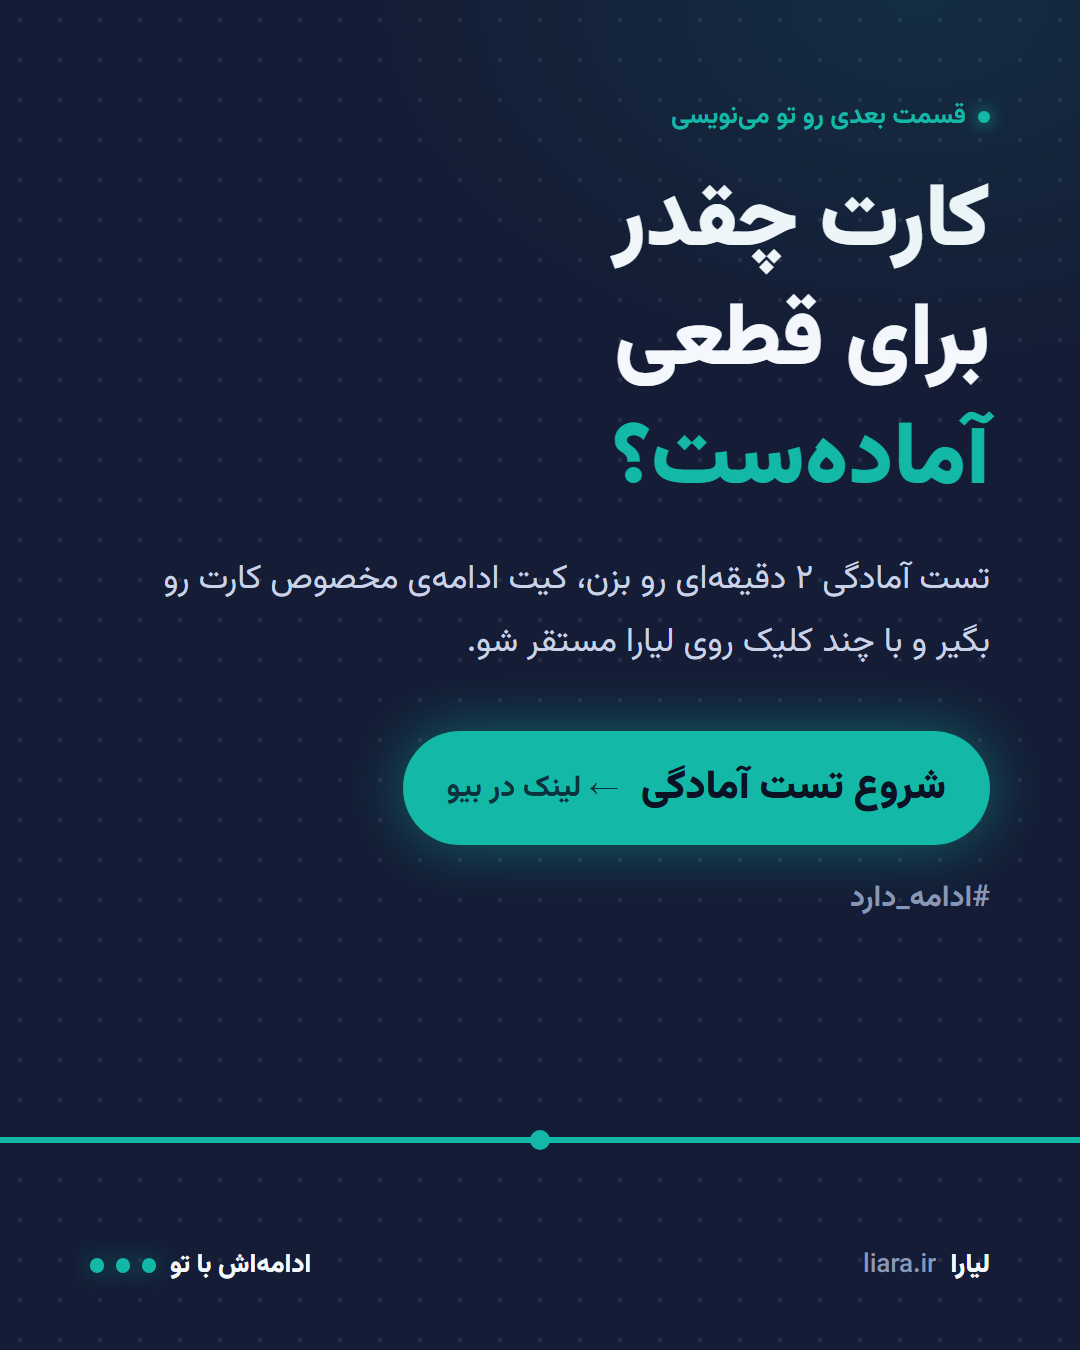
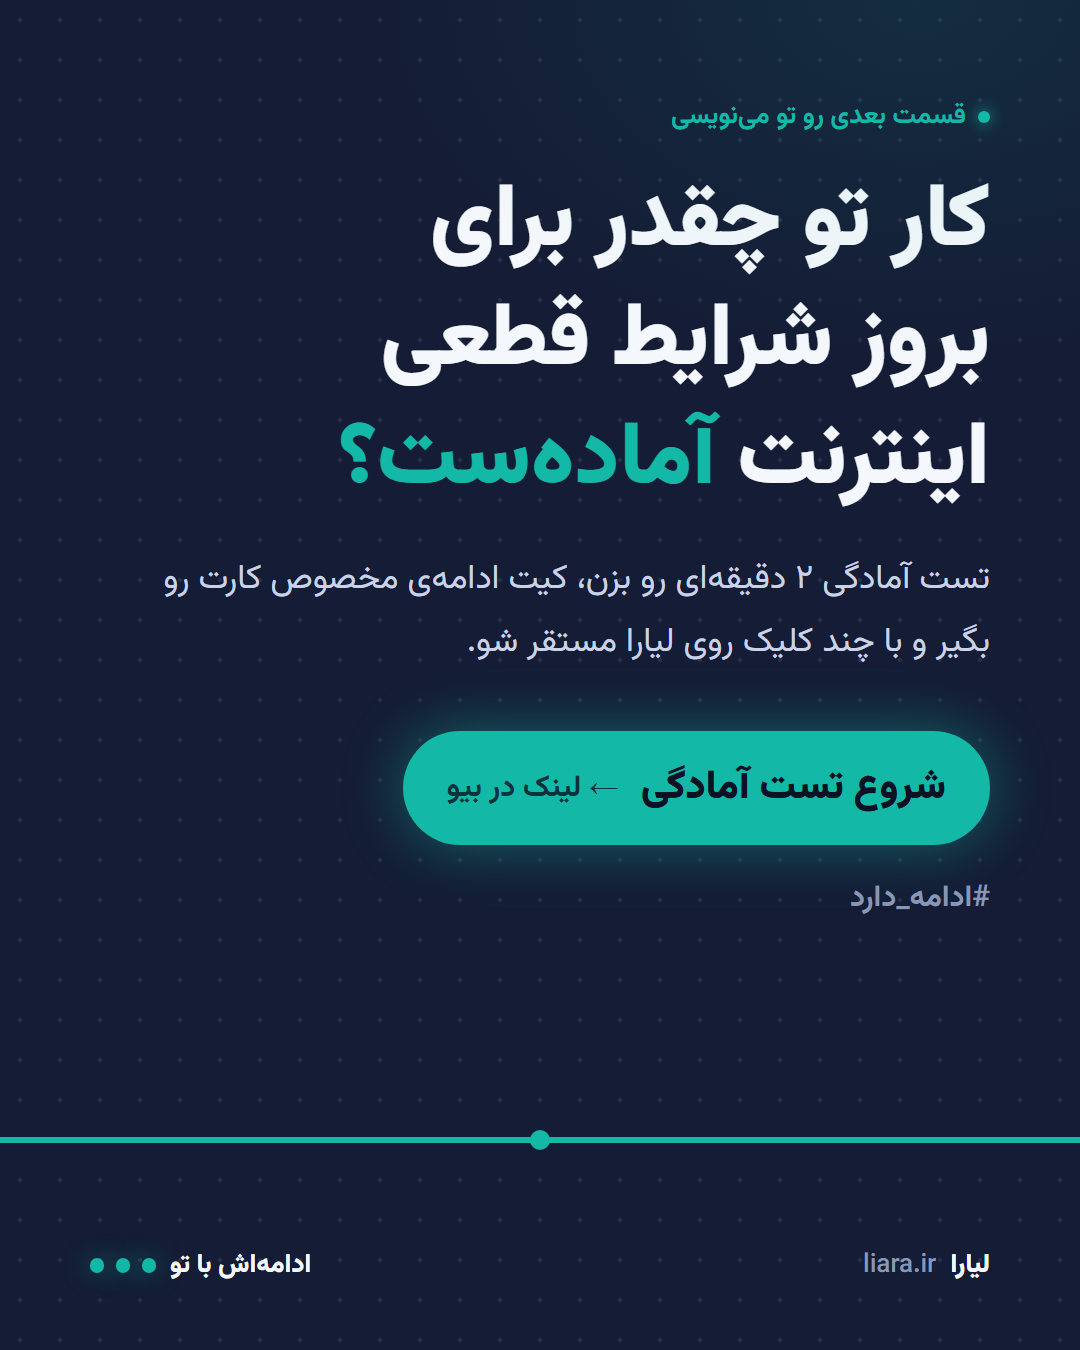
Match carousel slide 9 heading to the landing quiz heading

Changed region(s): [[0.3056, 0.1244, 0.9167, 0.3733]]

diff --git a/carousel/slides.html b/carousel/slides.html
@@ -168,7 +168,7 @@ const S = [
 
   { cls: 'grid-bg', th: 'on', last: true, html: `
     <div class="eyebrow">قسمت بعدی رو تو مینویسی</div>
-    <h1>کارت چقدر<br>برای قطعی<br><em>آمادهست؟</em></h1>
+    <h1>کار تو چقدر برای<br>بروز شرایط قطعی<br>اینترنت <em>آمادهست؟</em></h1>
     <p class="body">تست آمادگی ۲ دقیقهای رو بزن، کیت ادامهی مخصوص کارت رو بگیر و با چند کلیک روی لیارا مستقر شو.</p>
     <div class="cta">شروع تست آمادگی <span>← لینک در بیو</span></div>
     <p class="tag">#ادامه_دارد</p>` },

diff --git a/docs/strategy.md b/docs/strategy.md
@@ -96,7 +96,7 @@ flowchart TD
 | ۶ | آمادگی یعنی قبل از قطعی تمرین کنی. | ستون ۳ | فیروزهای |
 | ۷ | چکلیست قبل از قطعی بعدی | ارزش قابلذخیره | فیروزهای |
 | ۸ | تو روزهای سخت، تنها نیستی. | اعتماد و همراهی | فیروزهای |
-| ۹ | کارت چقدر برای قطعی آمادهست؟ | CTA | هر سه نقطه روشن |
+| ۹ | کار تو چقدر برای بروز شرایط قطعی اینترنت آمادهست؟ | CTA | هر سه نقطه روشن |
 
 یک خط افقی از همهی اسلایدها عبور میکند؛ در ورقزدن، مخاطب «گسست» را به «ادامه» تبدیلشده میبیند.
 
